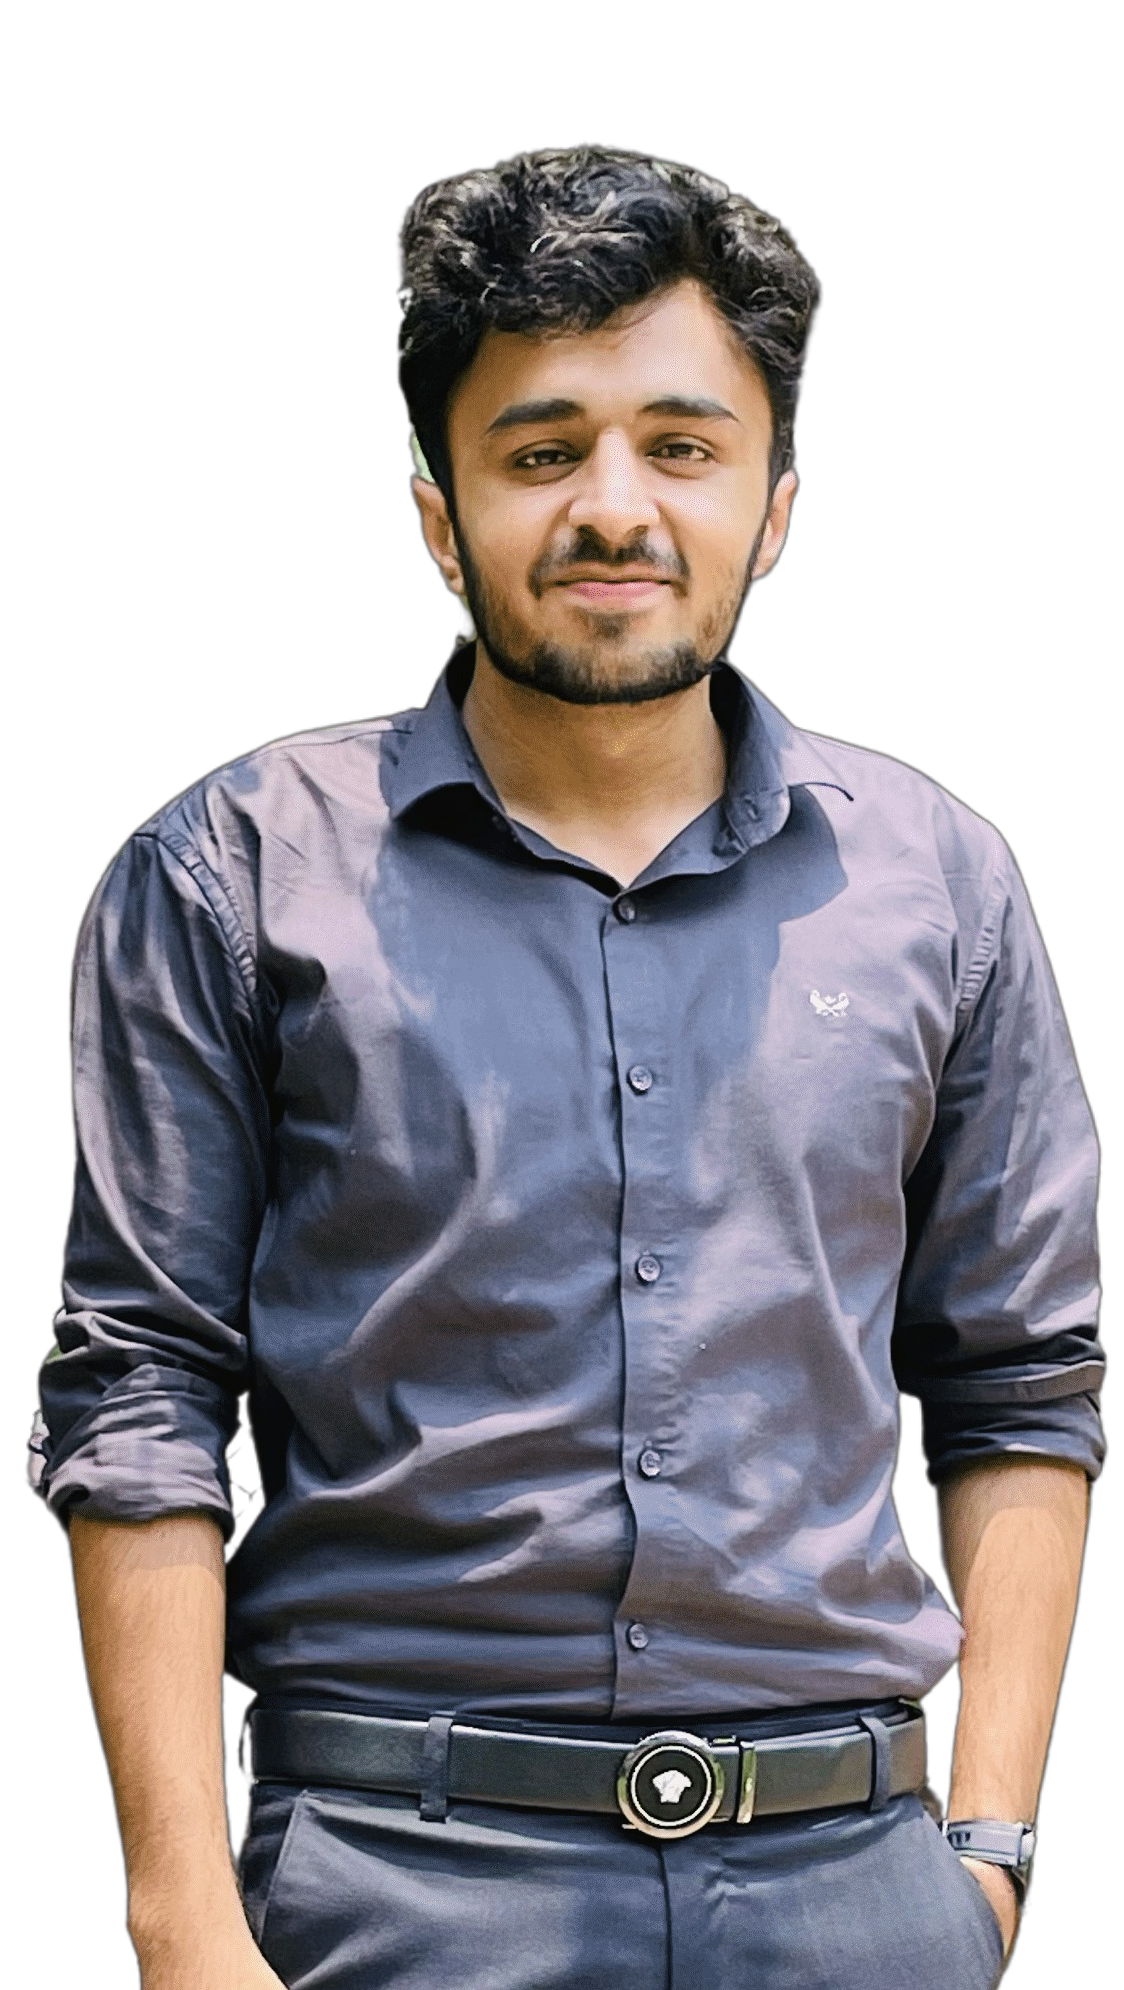
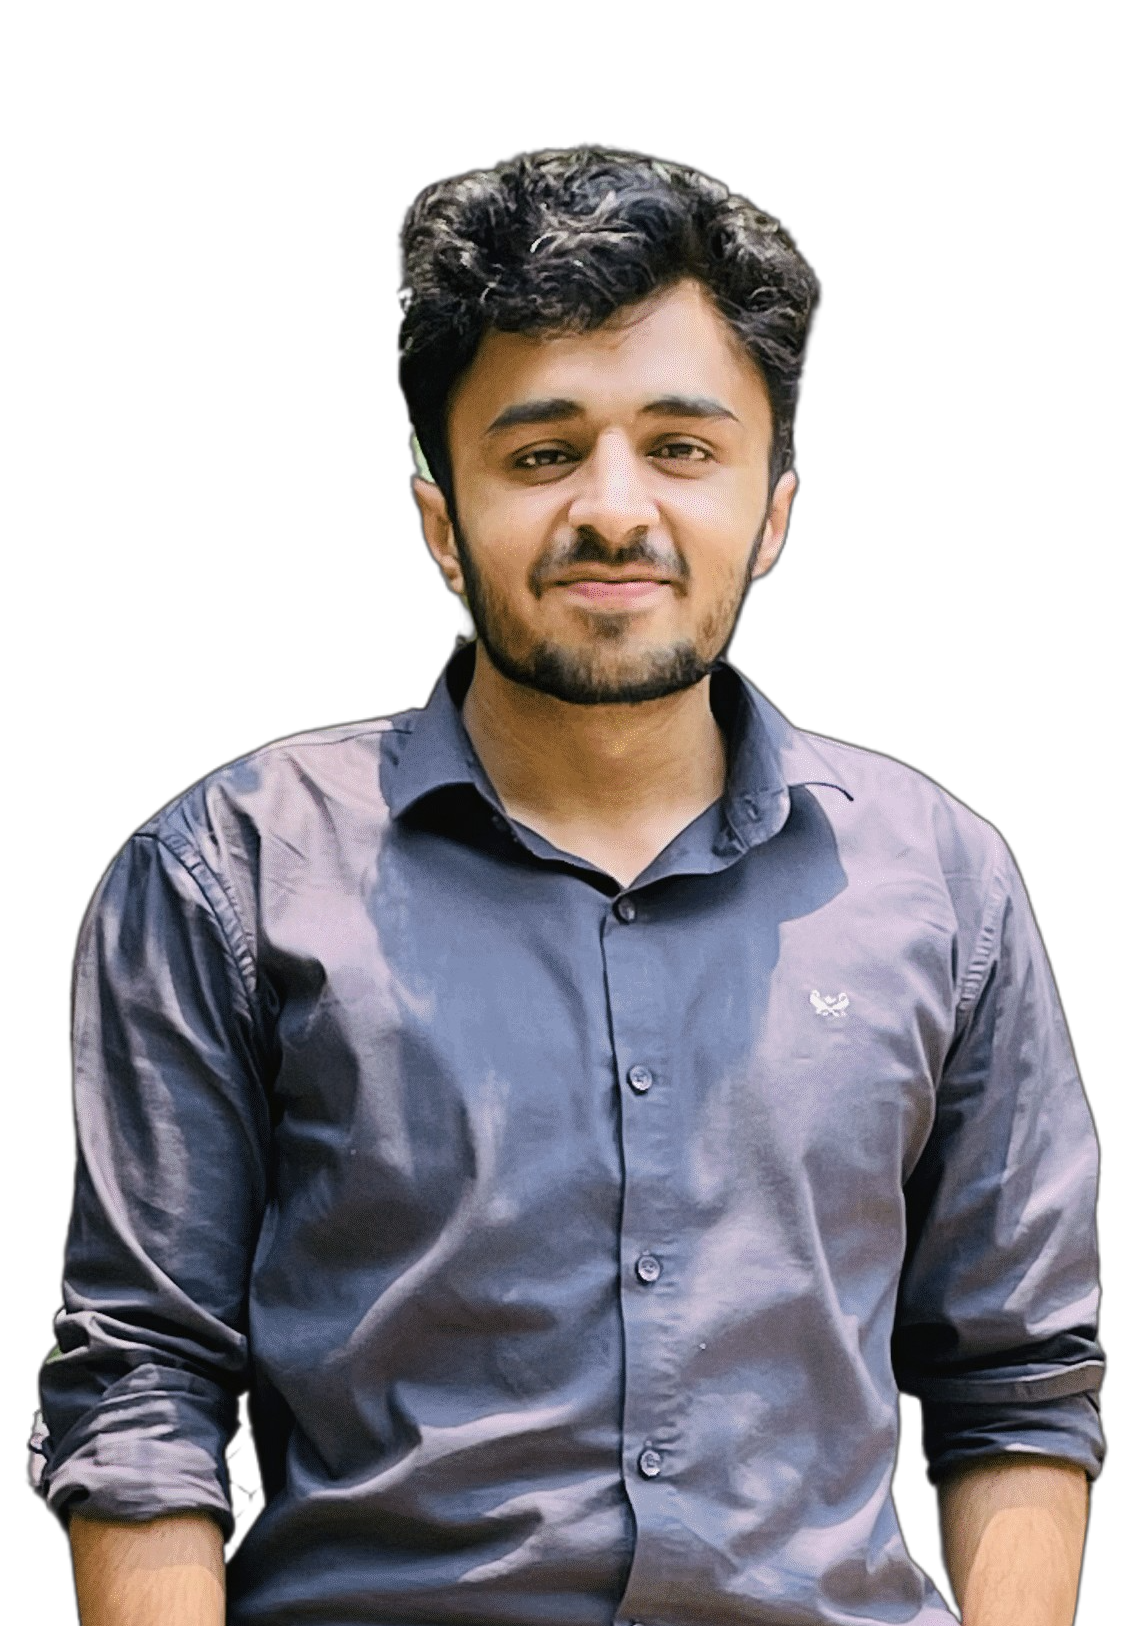
Trying GSAP

diff --git a/style.css b/style.css
@@ -940,12 +940,17 @@ launchpad img {
   z-index: 2;
 }
 @keyframes rocketAnimate {
-  from {
+  0% {
   }
-  to {
+  75% {
+    opacity: 1;
+  }
+  95%,
+  100% {
     transform: rotate(-90deg);
     right: 80vw;
     bottom: 110vh;
+    opacity: 0;
   }
 }
 
@@ -1362,27 +1367,32 @@ container[id="Contactinfo"] a {
   display: flex;
   gap: 4px;
   background-image: none;
-  background-color: none;
+  background-color: unset;
   color: black;
   width: auto;
   transition: all 0.1s;
   font-weight: normal;
 }
 
-container[id="Contactinfo"] a[id="hndl"]:hover {
+container[id="Contactinfo"] handle:hover > a[id="hndl"] {
   transform: translateY(-4px);
-  background-color: none;
-  background-image: linear-gradient(white, white);
+  /* background-color: none;
+  background-image: linear-gradient(white, white); */
   color: black;
   box-shadow: none;
   text-shadow: 5px 7px 4px rgb(0, 0, 0);
 }
 handles {
   position: absolute;
-  bottom: 10px;
+  bottom: 0px;
   display: flex;
   flex-wrap: wrap;
+  align-self: center;
   gap: 20px;
+  justify-content: space-between;
+  width: 100%;
+
+  background-color: white;
 }
 container[id="Contactinfo"] projectcard {
   font-family: sans-serif;
@@ -1418,69 +1428,81 @@ container[id="Contactinfo"] {
   background-attachment: fixed;
 }
 container[id="Contactinfo"] projectcard {
-
   overflow: hidden;
   background-position: 100%;
   background-image: none;
+}
+container[id="Contactinfo"] projectcard p {
+  font-family: Raleway;
+  text-align: left;
+}
+container[id="Contactinfo"] projectcard h3 {
+  text-align: center;
+  font-family: Great Vibes;
+  font-size: 1.5rem;
 }
 /* container[id="Contactinfo"] projectcard:hover h3
 {
   color: white;
 } */
-container[id="Contactinfo"] projectcard:hover img[id=pro]
-{
+container[id="Contactinfo"] projectcard:hover img[id="pro"] {
   animation: borderanimation 4s infinite;
 }
-container[id="Contactinfo"] projectcard back,container[id="Contactinfo"] projectcard back2
-{
+container[id="Contactinfo"] projectcard back,
+container[id="Contactinfo"] projectcard back2 {
   position: absolute;
   width: 100%;
-  top:0%;
-  left:0;
+  top: 0%;
+  left: 0;
   z-index: -2;
   height: 100%;
-  background-image: linear-gradient(135deg,transparent 50%,rgba(152, 165, 216, 0.717),rgb(202, 241, 251));
-  
+  background-image: linear-gradient(
+    135deg,
+    transparent 50%,
+    rgba(152, 165, 216, 0.717),
+    rgb(202, 241, 251)
+  );
+
   /* background-image: linear-gradient(135deg,transparent 50%,rgb(62, 61, 61) 50%); */
   background-size: 500%;
   background-position: 0;
   transition: all 2s;
 }
 
-container[id="Contactinfo"] projectcard back2
-{
-  background-image: radial-gradient(closest-side at 10% 10%,#41414141 80%,#0000 81%),
-  radial-gradient(closest-side at 10% 10%,#41414141 80%,#0000 81%);
-background-size: 15px 15px;
+container[id="Contactinfo"] projectcard back2 {
+  background-image: radial-gradient(
+      closest-side at 10% 10%,
+      #4141411e 80%,
+      #0000 81%
+    ),
+    radial-gradient(closest-side at 10% 10%, #4141411d 80%, #0000 81%);
+  background-size: 15px 15px;
 }
-container[id="Contactinfo"] projectcard:hover back
-{
+container[id="Contactinfo"] projectcard:hover back {
   background-position: 100%;
- 
 }
-container[id="Contactinfo"] projectcard:hover back2
-{
+container[id="Contactinfo"] projectcard:hover back2 {
   scale: 1.4;
   opacity: 0.5;
-  background-image: radial-gradient(closest-side at 10% 10%,#8b8b8b41 80%,#0000 81%),
-  radial-gradient(closest-side at 10% 10%,#8a8a8a41 80%,#0000 81%);
+  background-image: radial-gradient(
+      closest-side at 10% 10%,
+      #8b8b8b41 80%,
+      #0000 81%
+    ),
+    radial-gradient(closest-side at 10% 10%, #8a8a8a41 80%, #0000 81%);
 }
 container[id="Contactinfo"] projectcard img {
   box-shadow: none;
- 
-
 }
 container[id="Contactinfo"] projectcard img[id="pro"] {
   position: relative;
   width: auto;
   height: 50%;
-  border-radius:
-  61% 39% 39% 61% / 49% 70% 30% 51% ;
+  border-radius: 61% 39% 39% 61% / 49% 70% 30% 51%;
   display: flex;
   align-self: center;
   border: 4px solid rgb(255, 255, 255);
   transition: box-shadow 0.4s;
-
 }
 container[id="Contactinfo"] about {
   position: relative;
@@ -1498,19 +1520,21 @@ container[id="Contactinfo"] about span {
   font-size: 1.5rem;
 }
 
-@keyframes borderanimation
-{
-  0%
-  { border-radius:
-    61% 39% 39% 61% / 49% 70% 30% 51% ;}
-  25%
-  {border-radius: 70% 30% 62% 38% / 38% 79% 21% 62%  }
-  50%
-  {border-radius:75% 25% 55% 45% / 14% 77% 23% 86% }
-  75%
-  {border-radius:39% 61% 38% 62% / 44% 21% 79% 56% }
-  100%
-  {}
+@keyframes borderanimation {
+  0% {
+    border-radius: 61% 39% 39% 61% / 49% 70% 30% 51%;
+  }
+  25% {
+    border-radius: 70% 30% 62% 38% / 38% 79% 21% 62%;
+  }
+  50% {
+    border-radius: 75% 25% 55% 45% / 14% 77% 23% 86%;
+  }
+  75% {
+    border-radius: 39% 61% 38% 62% / 44% 21% 79% 56%;
+  }
+  100% {
+  }
 }
 
 about h1 {

diff --git a/index.html b/index.html
@@ -34,6 +34,18 @@
     />
     <link
       rel="stylesheet"
+      href="https://fonts.googleapis.com/css?family=Bungee Spice"
+    />
+    <link
+      rel="stylesheet"
+      href="https://fonts.googleapis.com/css?family=Cookie"
+    />
+    <link
+      rel="stylesheet"
+      href="https://fonts.googleapis.com/css?family=Kalam"
+    />
+    <link
+      rel="stylesheet"
       href="https://cdnjs.cloudflare.com/ajax/libs/font-awesome/4.7.0/css/font-awesome.min.css"
     />
   </head>
@@ -64,7 +76,7 @@
       <container id="Home">
         <br />
         <br />
-        <img src="Resources/Images/me2.png" alt="Baral Kuldeep image" />
+        <img src="Resources/Images/me3.png" alt="Baral Kuldeep image" />
 
         <p class="h">
           Hello, My name is <br />Baral Kuldeep<br />
@@ -368,14 +380,14 @@
           <img src="Resources/Images/me4.jpg" id="pro" />
           <h3>
             Baral Kuldeep<br />
-            (🪖Georgian (R.M.S Chail))
+            (Georgian (R.M.S Chail))
           </h3>
           <hr />
           <br />
 
           <p>
-            🧑💻MCA Graduate<br />
-            😎In progress from Frontend developer to Full Stack <br />
+            >MCA Graduate<br />
+            >In progress from Frontend developer to Full Stack <br />
           </p>
           <handles>
             <handle
@@ -464,5 +476,8 @@
       });
     </script> -->
     <!-- ul>(li>a)*4 -->
+    <script src="https://cdnjs.cloudflare.com/ajax/libs/gsap/3.12.2/gsap.min.js"></script>
+    <script src="https://cdnjs.cloudflare.com/ajax/libs/gsap/3.12.2/ScrollTrigger.min.js"></script>
+    <script src="script.js"></script>
   </body>
 </html>

diff --git a/script.js b/script.js
@@ -1,0 +1,36 @@
+gsap.registerPlugin(ScrollTrigger);
+
+gsap.set("innercontainer",{
+    opacity:1,duration:2,
+});
+gsap.set("innercontainer2",{
+    opacity:1,duration:2,
+});
+gsap.from("innercontainer",{
+    x:-100,
+    duration:2,
+    opacity:0,
+    scrollTrigger:"innercontainer",
+});
+gsap.from("innercontainer2",{
+    x:-200,
+    duration:2,
+    opacity:0,
+    scrollTrigger:"innercontainer2",
+});
+gsap.set("container h1",{
+    opacity:1,duration:2,
+});
+gsap.from("container h1",{
+    y:-100,
+    duration:2,
+    opacity:0,
+    scrollTrigger:"container h1",
+});
+
+
+gsap.from("Hobby1",{
+    x:50+"vw",
+    duration:1,
+    scrollTrigger:"Hobby1"
+});
